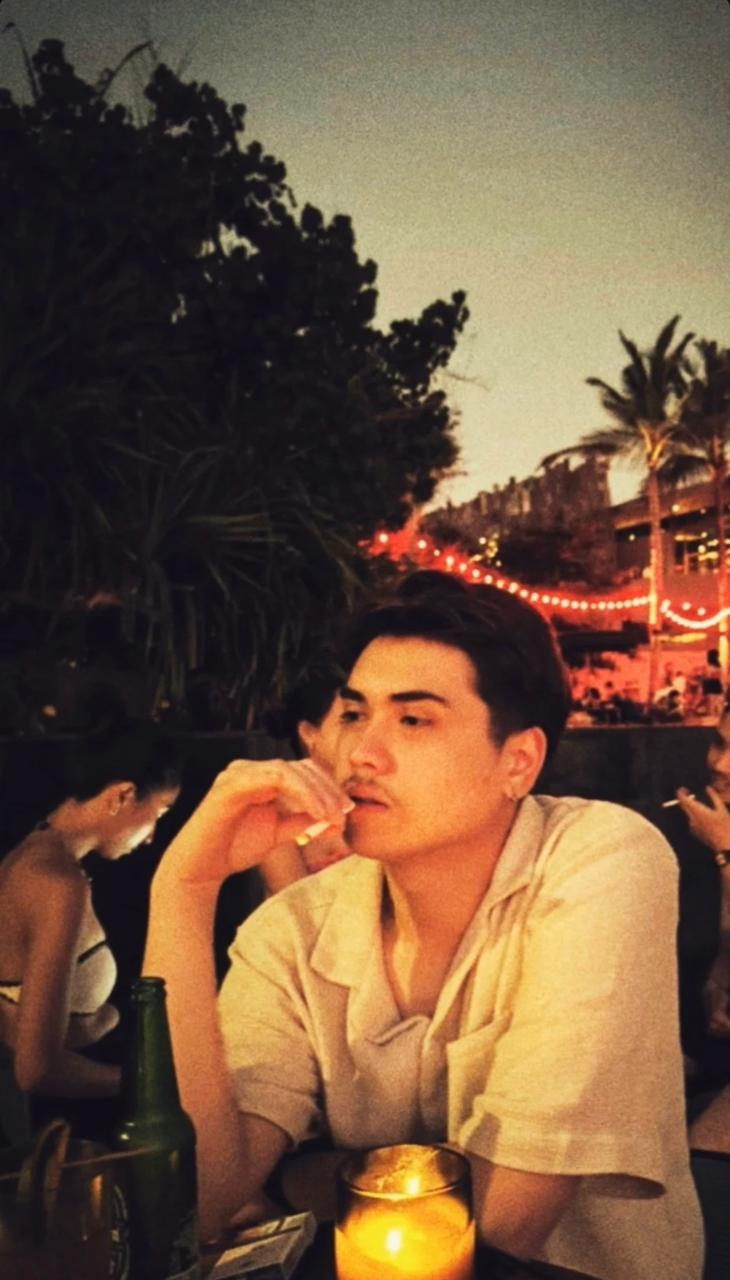
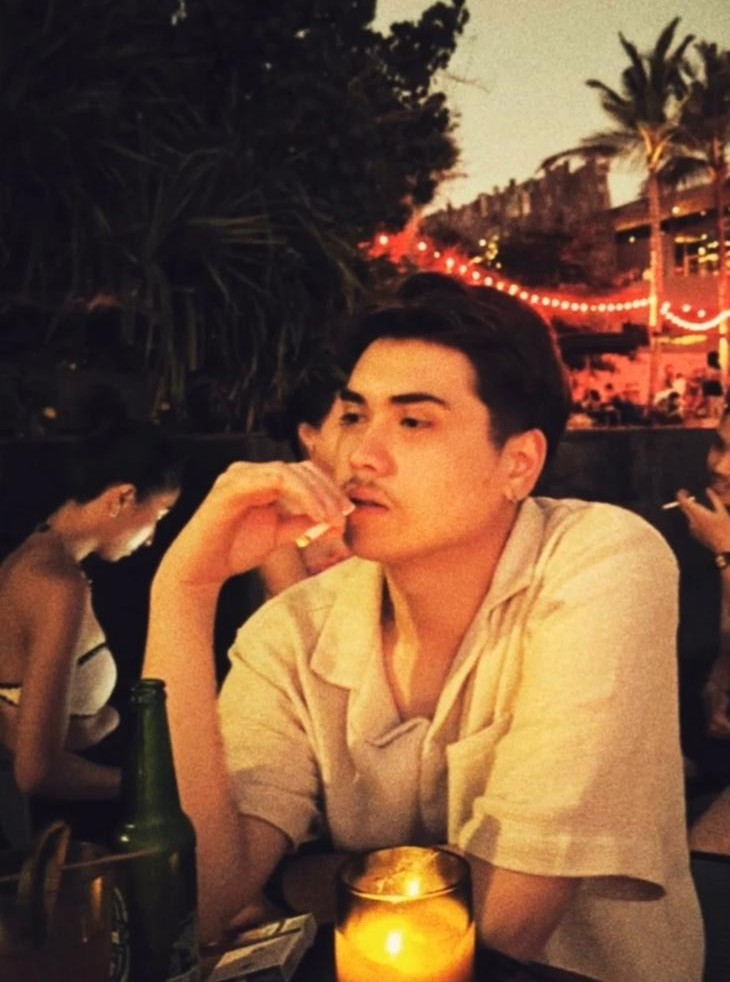
push1

diff --git a/index.html b/index.html
@@ -118,6 +118,10 @@
           font-size: 1.2rem;
         }
 
+        .poto3 img{
+          max-height: 33vh;
+        }
+
         h2 {
           font-size: 1.5rem;
         }
@@ -185,7 +189,7 @@
       <button class="button" onclick="goToPage(7)">♡</button>
     </div>
 
-    <div class="page" id="page7">
+    <div class="page poto3" id="page7">
       <img src="./assets/foto3.jpg" alt="Cute Love" />
       <h1>
         You are my safe place, my joy, my love. May today bring you all the
